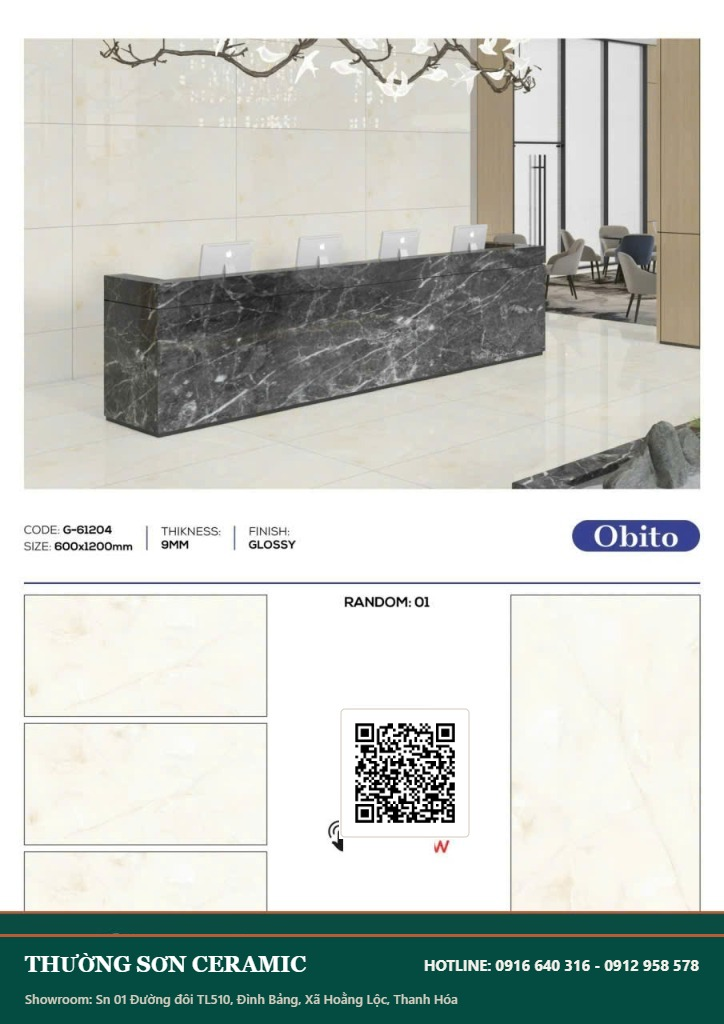
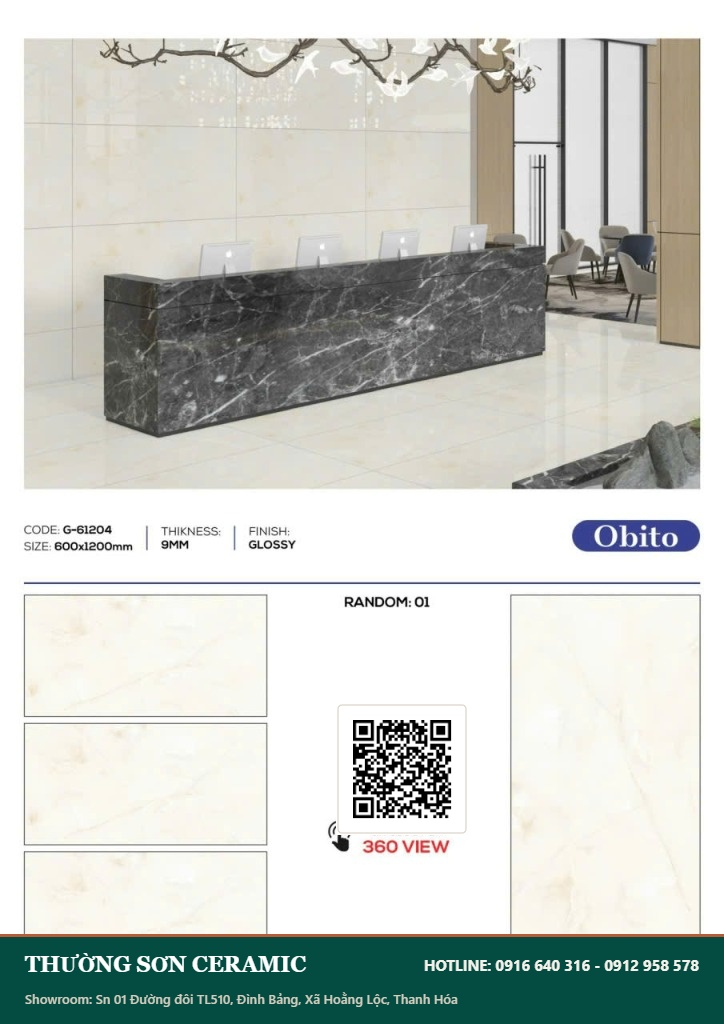
feat: tich hop toan dien mau gach Obito G-61204, phoi canh 360 VR goc 3000x1500px va poster studio

Changed region(s): [[0.0, 0.875, 1.0, 0.9375], [0.4558, 0.6875, 0.6685, 0.8438]]

diff --git a/src/app/poster/page.tsx b/src/app/poster/page.tsx
@@ -11,6 +11,7 @@ interface ProductInfo {
   code: string;
   slug: string;
   name: string;
+  panorama360?: string;
 }
 
 const productCodeMap = productCodeMapRaw as unknown as Record<string, ProductInfo>;
@@ -616,7 +617,7 @@ export default function StandalonePosterPage() {
 
       const is360 = item.is360Mode !== undefined
         ? item.is360Mode
-        : (detection.is360 || item.fileName.toLowerCase().includes('360') || product?.slug === 'orinda-airson-hk-2256');
+        : (detection.is360 || item.fileName.toLowerCase().includes('360') || product?.slug === 'orinda-airson-hk-2256' || product?.slug === 'obito-g-61204-glossy' || Boolean(product?.panorama360));
 
       const targetUrl = product
         ? (is360 ? `${baseUrl}/360/${product.slug}` : `${baseUrl}/products/${product.slug}`)
@@ -1039,18 +1040,18 @@ export default function StandalonePosterPage() {
             {/* Quick Test Samples */}
             <div className="pt-4 border-t border-[#D5CDBE]/70 space-y-2.5">
               <span className="text-[11px] font-mono text-[#8B7C66] block text-center uppercase tracking-wider">
-                Hoặc thử nhanh với 2 mẫu catalog tiêu chuẩn:
+                Hoặc thử nhanh với các mẫu catalog tiêu chuẩn &amp; 360 VR:
               </span>
-              <div className="grid grid-cols-2 sm:grid-cols-3 gap-2.5">
+              <div className="grid grid-cols-2 sm:grid-cols-4 gap-2.5">
                 <button
                   type="button"
                   onClick={() => loadSamplePosters(['/samples/poster_sample_1.jpg'])}
-                  className="p-3 bg-white hover:bg-[#F5F1EA] border border-[#D5CDBE] hover:border-[#044C42] rounded-xl text-left transition-all flex items-center gap-2.5 cursor-pointer shadow-sm active:scale-95"
+                  className="p-2.5 bg-white hover:bg-[#F5F1EA] border border-[#D5CDBE] hover:border-[#044C42] rounded-xl text-left transition-all flex items-center gap-2 cursor-pointer shadow-sm active:scale-95"
                 >
                   {/* eslint-disable-next-line @next/next/no-img-element */}
                   <img src="/samples/poster_sample_1.jpg" alt="Mẫu 1" className="w-8 h-11 object-cover rounded border border-[#E5E0D8]" />
                   <div className="overflow-hidden">
-                    <span className="text-xs font-semibold text-[#1C1B19] block truncate">Mẫu 1: Đá Slab</span>
+                    <span className="text-xs font-semibold text-[#1C1B19] block truncate">Đá Slab</span>
                     <span className="text-[10px] text-[#8B7C66] font-mono block">Thẻ kem MP62003</span>
                   </div>
                 </button>
@@ -1058,12 +1059,12 @@ export default function StandalonePosterPage() {
                 <button
                   type="button"
                   onClick={() => loadSamplePosters(['/samples/poster_sample_2.jpg'])}
-                  className="p-3 bg-white hover:bg-[#F5F1EA] border border-[#D5CDBE] hover:border-[#044C42] rounded-xl text-left transition-all flex items-center gap-2.5 cursor-pointer shadow-sm active:scale-95"
+                  className="p-2.5 bg-white hover:bg-[#F5F1EA] border border-[#D5CDBE] hover:border-[#044C42] rounded-xl text-left transition-all flex items-center gap-2 cursor-pointer shadow-sm active:scale-95"
                 >
                   {/* eslint-disable-next-line @next/next/no-img-element */}
                   <img src="/samples/poster_sample_2.jpg" alt="Mẫu 2" className="w-8 h-11 object-cover rounded border border-[#E5E0D8]" />
                   <div className="overflow-hidden">
-                    <span className="text-xs font-semibold text-[#1C1B19] block truncate">Mẫu 2: 6 Face</span>
+                    <span className="text-xs font-semibold text-[#1C1B19] block truncate">6 Face</span>
                     <span className="text-[10px] text-[#8B7C66] font-mono block">Dải đen MP62003</span>
                   </div>
                 </button>
@@ -1071,16 +1072,32 @@ export default function StandalonePosterPage() {
                 <button
                   type="button"
                   onClick={() => loadSamplePosters(['/images/products/orinda-airson/poster.jpg'])}
-                  className="p-3 bg-white hover:bg-[#F5F1EA] border border-amber-300 hover:border-amber-600 rounded-xl text-left transition-all flex items-center gap-2.5 cursor-pointer shadow-sm active:scale-95 col-span-2 sm:col-span-1"
+                  className="p-2.5 bg-white hover:bg-[#F5F1EA] border border-amber-300 hover:border-amber-600 rounded-xl text-left transition-all flex items-center gap-2 cursor-pointer shadow-sm active:scale-95"
                 >
                   {/* eslint-disable-next-line @next/next/no-img-element */}
                   <img src="/images/products/orinda-airson/poster.jpg" alt="Mẫu 3 360 VR" className="w-8 h-11 object-cover rounded border border-amber-200" />
                   <div className="overflow-hidden">
                     <div className="flex items-center gap-1">
-                      <span className="text-xs font-bold text-amber-800 block truncate">Mẫu 3: 360° VR</span>
+                      <span className="text-xs font-bold text-amber-800 block truncate">360° VR</span>
                       <span className="w-1.5 h-1.5 rounded-full bg-amber-500 animate-ping" />
                     </div>
-                    <span className="text-[10px] text-[#8B7C66] font-mono block">Orinda AIRSON 2256</span>
+                    <span className="text-[10px] text-[#8B7C66] font-mono block">Orinda AIRSON</span>
+                  </div>
+                </button>
+
+                <button
+                  type="button"
+                  onClick={() => loadSamplePosters(['/images/products/obito-g61204/poster-raw.jpg'])}
+                  className="p-2.5 bg-white hover:bg-[#F5F1EA] border border-emerald-300 hover:border-emerald-600 rounded-xl text-left transition-all flex items-center gap-2 cursor-pointer shadow-sm active:scale-95"
+                >
+                  {/* eslint-disable-next-line @next/next/no-img-element */}
+                  <img src="/images/products/obito-g61204/poster-raw.jpg" alt="Mẫu 4 Obito VR" className="w-8 h-11 object-cover rounded border border-emerald-200" />
+                  <div className="overflow-hidden">
+                    <div className="flex items-center gap-1">
+                      <span className="text-xs font-bold text-emerald-800 block truncate">Obito VR</span>
+                      <span className="w-1.5 h-1.5 rounded-full bg-emerald-500 animate-ping" />
+                    </div>
+                    <span className="text-[10px] text-[#8B7C66] font-mono block">G-61204 Glossy</span>
                   </div>
                 </button>
               </div>
@@ -1088,10 +1105,10 @@ export default function StandalonePosterPage() {
               <div className="text-center pt-1">
                 <button
                   type="button"
-                  onClick={() => loadSamplePosters(['/samples/poster_sample_1.jpg', '/samples/poster_sample_2.jpg'])}
+                  onClick={() => loadSamplePosters(['/samples/poster_sample_1.jpg', '/samples/poster_sample_2.jpg', '/images/products/obito-g61204/poster-raw.jpg'])}
                   className="text-xs font-mono text-[#044C42] hover:underline cursor-pointer"
                 >
-                  ⚡ Thử tải cả 2 mẫu cùng lúc (Hàng loạt)
+                  ⚡ Thử tải cả 3 mẫu cùng lúc (Hàng loạt)
                 </button>
               </div>
             </div>
